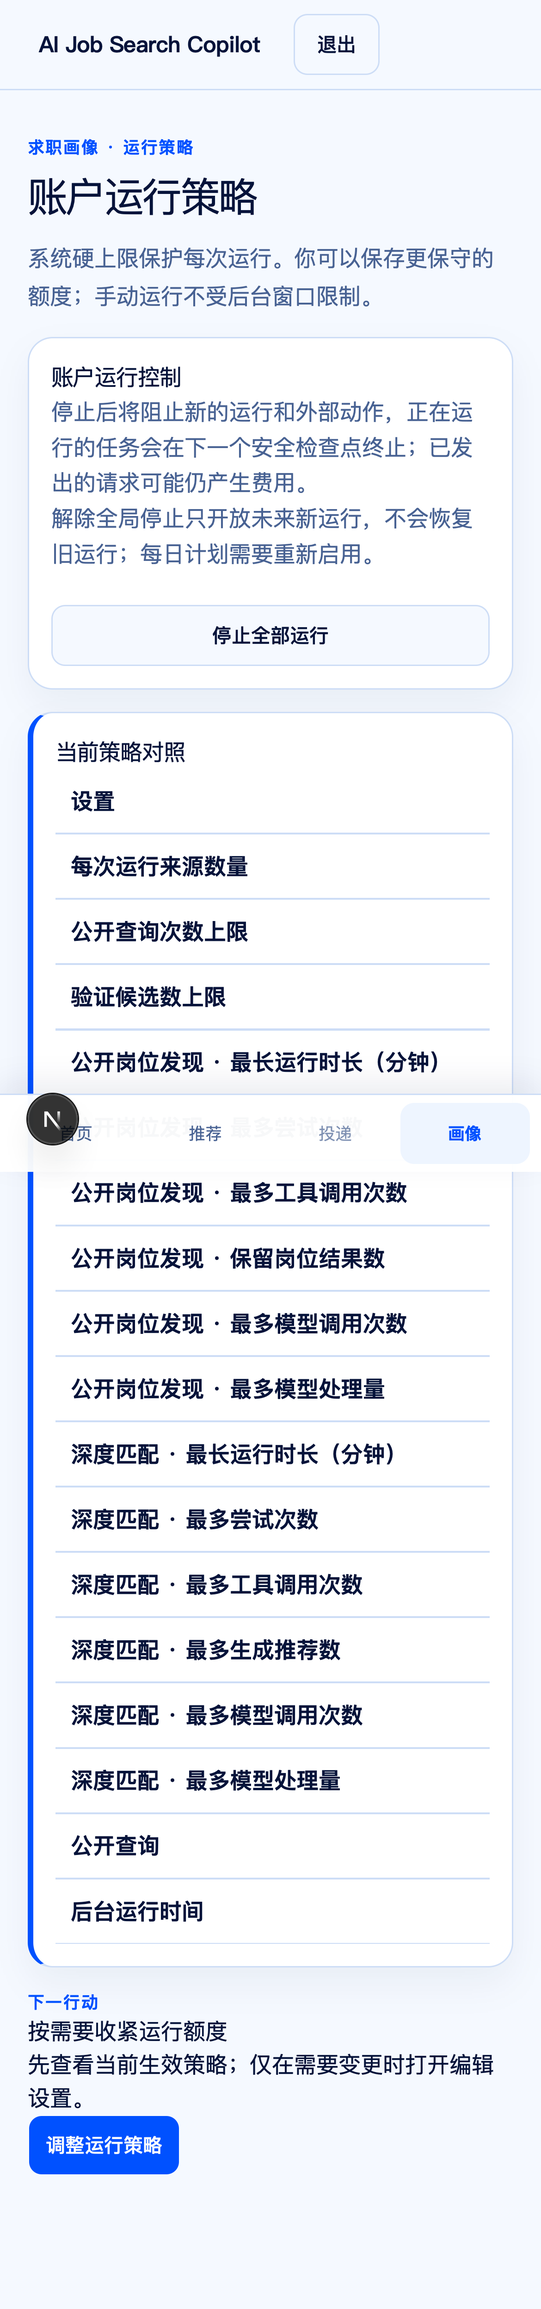
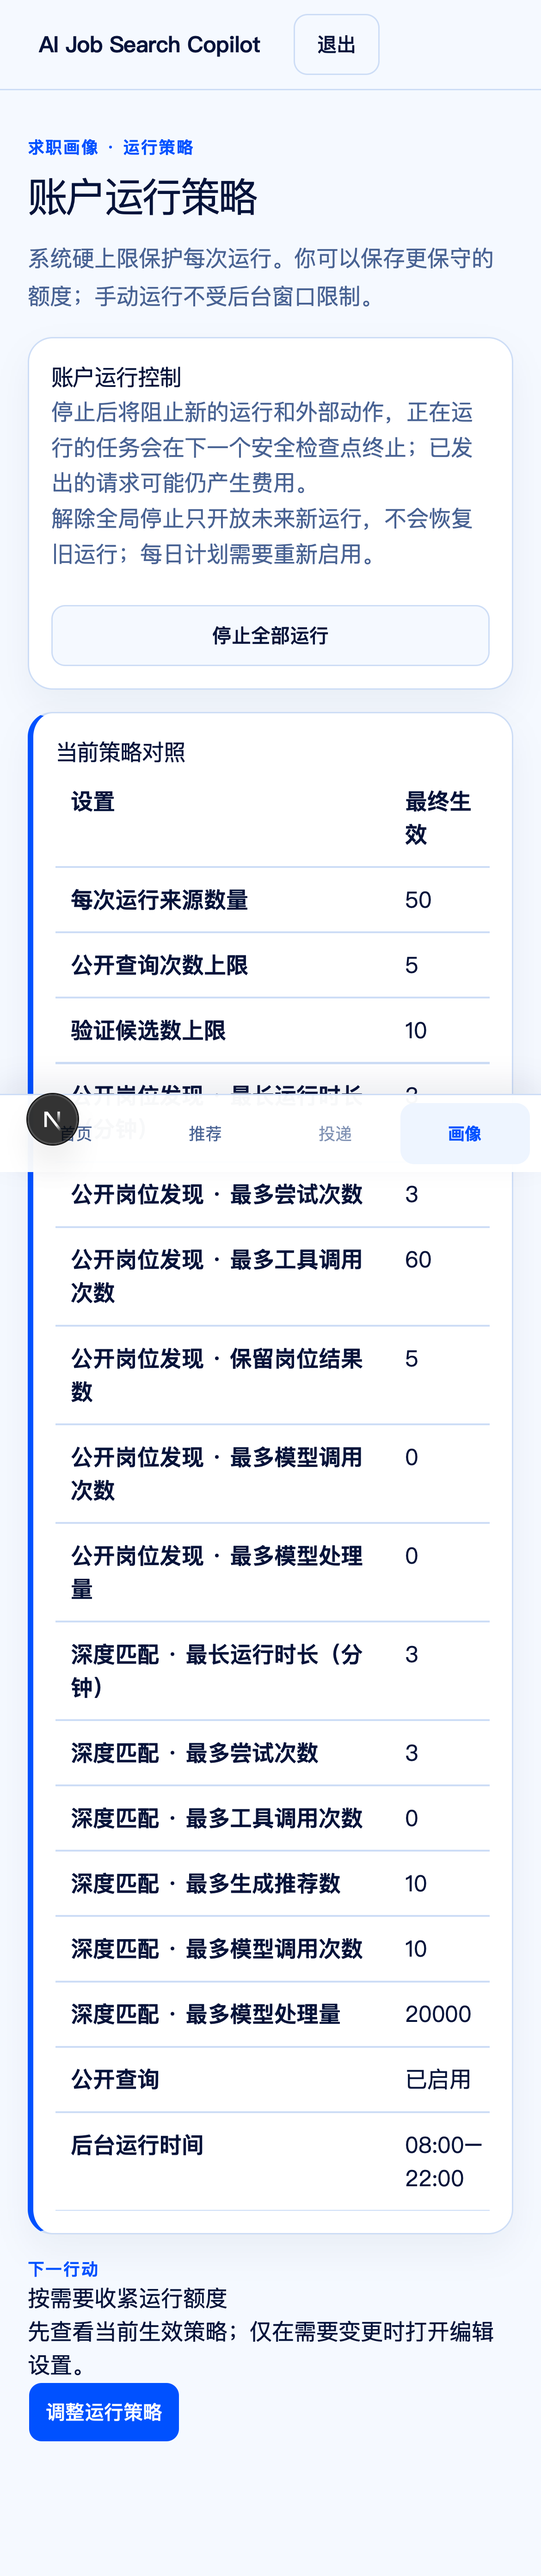
fix(web): preserve mobile policy effective values

diff --git a/apps/web/app/globals.css b/apps/web/app/globals.css
@@ -685,7 +685,8 @@ body {
 
 @media (max-width: 640px) {
   .run-policy-table-wrap table {
-    min-width: 0;
+    min-width: 100% !important;
+    table-layout: fixed;
   }
 
   .run-policy-table-wrap th:nth-child(2),
@@ -700,6 +701,13 @@ body {
   .run-policy-table-wrap th:nth-child(5),
   .run-policy-table-wrap td:nth-child(5) {
     display: table-cell !important;
+    width: 4.5rem;
+  }
+
+  .run-policy-table-wrap th:first-child,
+  .run-policy-table-wrap td:first-child {
+    width: auto;
+    overflow-wrap: anywhere;
   }
 
   .marketing-header-inner {
